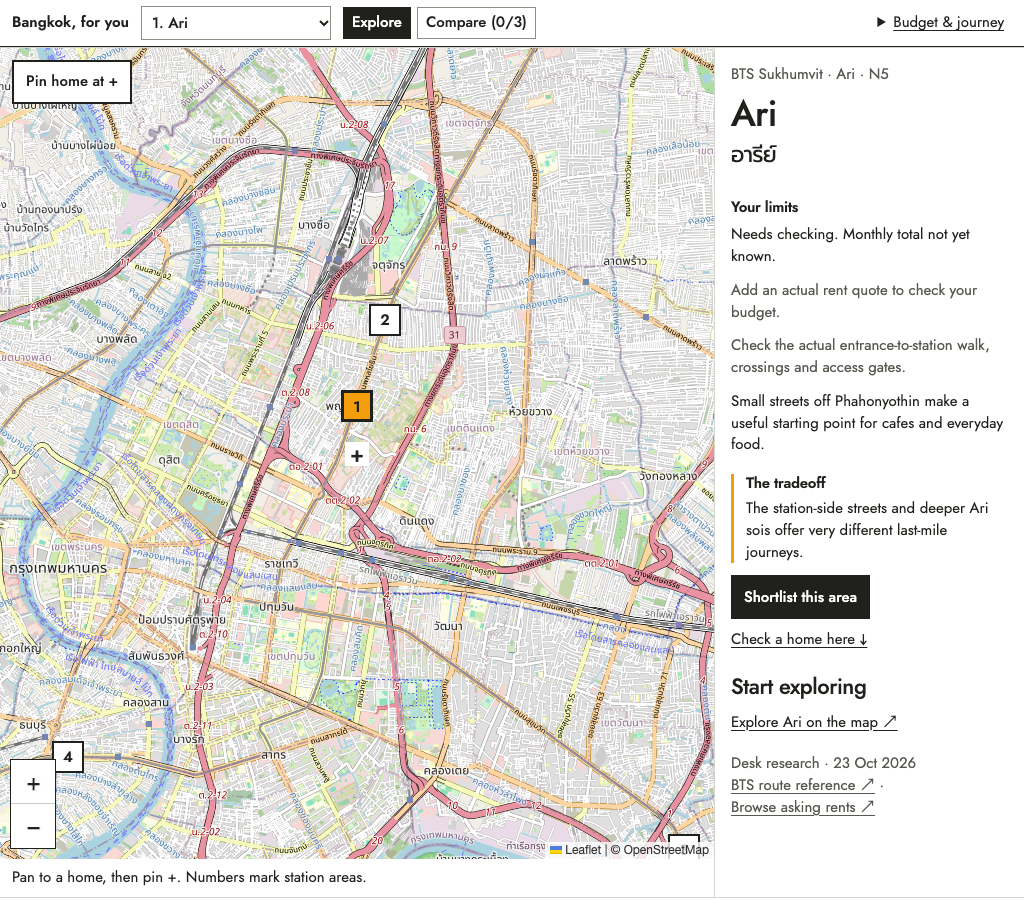
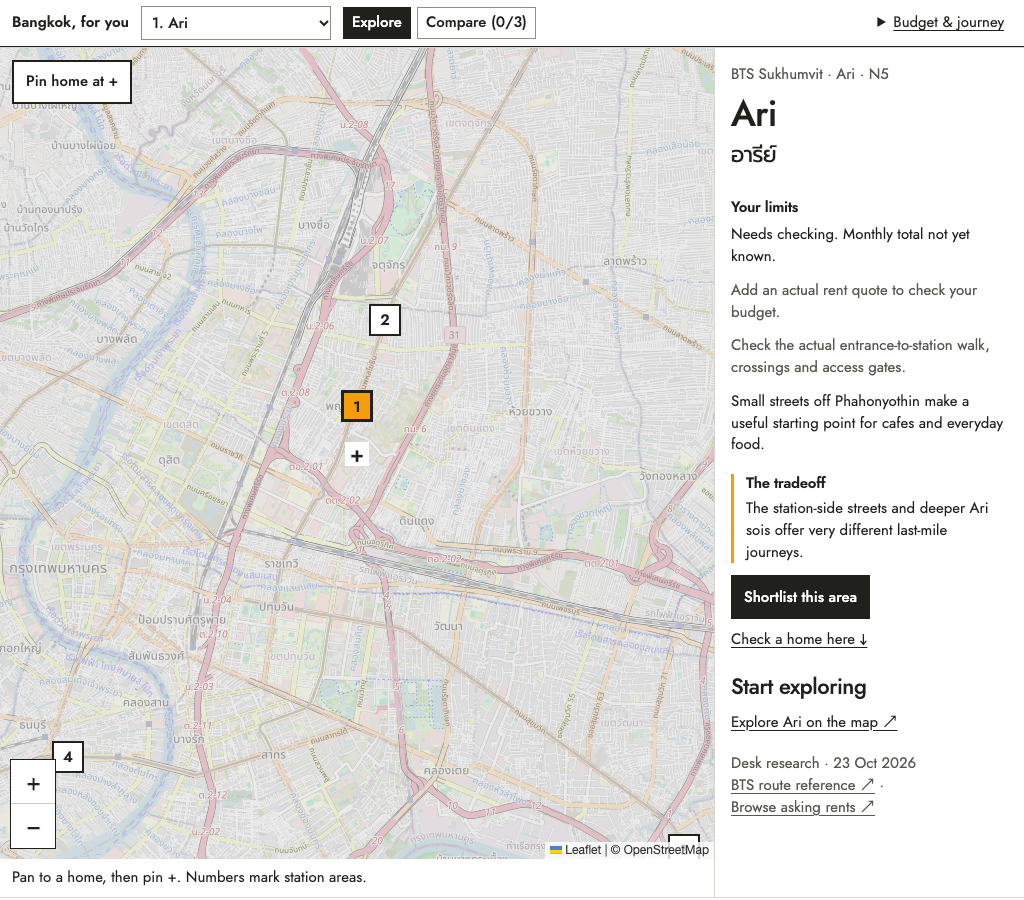
Record live map-first geometry and preserved IOC assets
Agent: codex

diff --git a/docs/revival-2026-10-23/map-first-verification/README.md b/docs/revival-2026-10-23/map-first-verification/README.md
@@ -15,3 +15,5 @@ Verification covers widths 390/799/801/1024/1440, a normal-text chrome ceiling o
 The four-layer economics proposal is ../MAP-FIRST.md. None of its market estimates or business-demand ratings are presented as implemented.
 
 The optional source audit command `npx --no-install axiom-audit apps/web/src/places --strict` could not run: the package registry returned 404. It is not recorded as a passing check. Rendered geometry, production build, behavior tests and independent review are the evidence used here.
+
+Production closeout: source 06949aa deployed as 5fb3dd4d. The five-width browser suite passes against https://bangkok-ioc.pages.dev/places, including Compare keyboard settings, settings bounds, report and enlarged text. The live entry references index-b7ZcWLcS.js. Original IOC root HTML and both immutable bundles remain byte-identical. Current captures reflect production.
